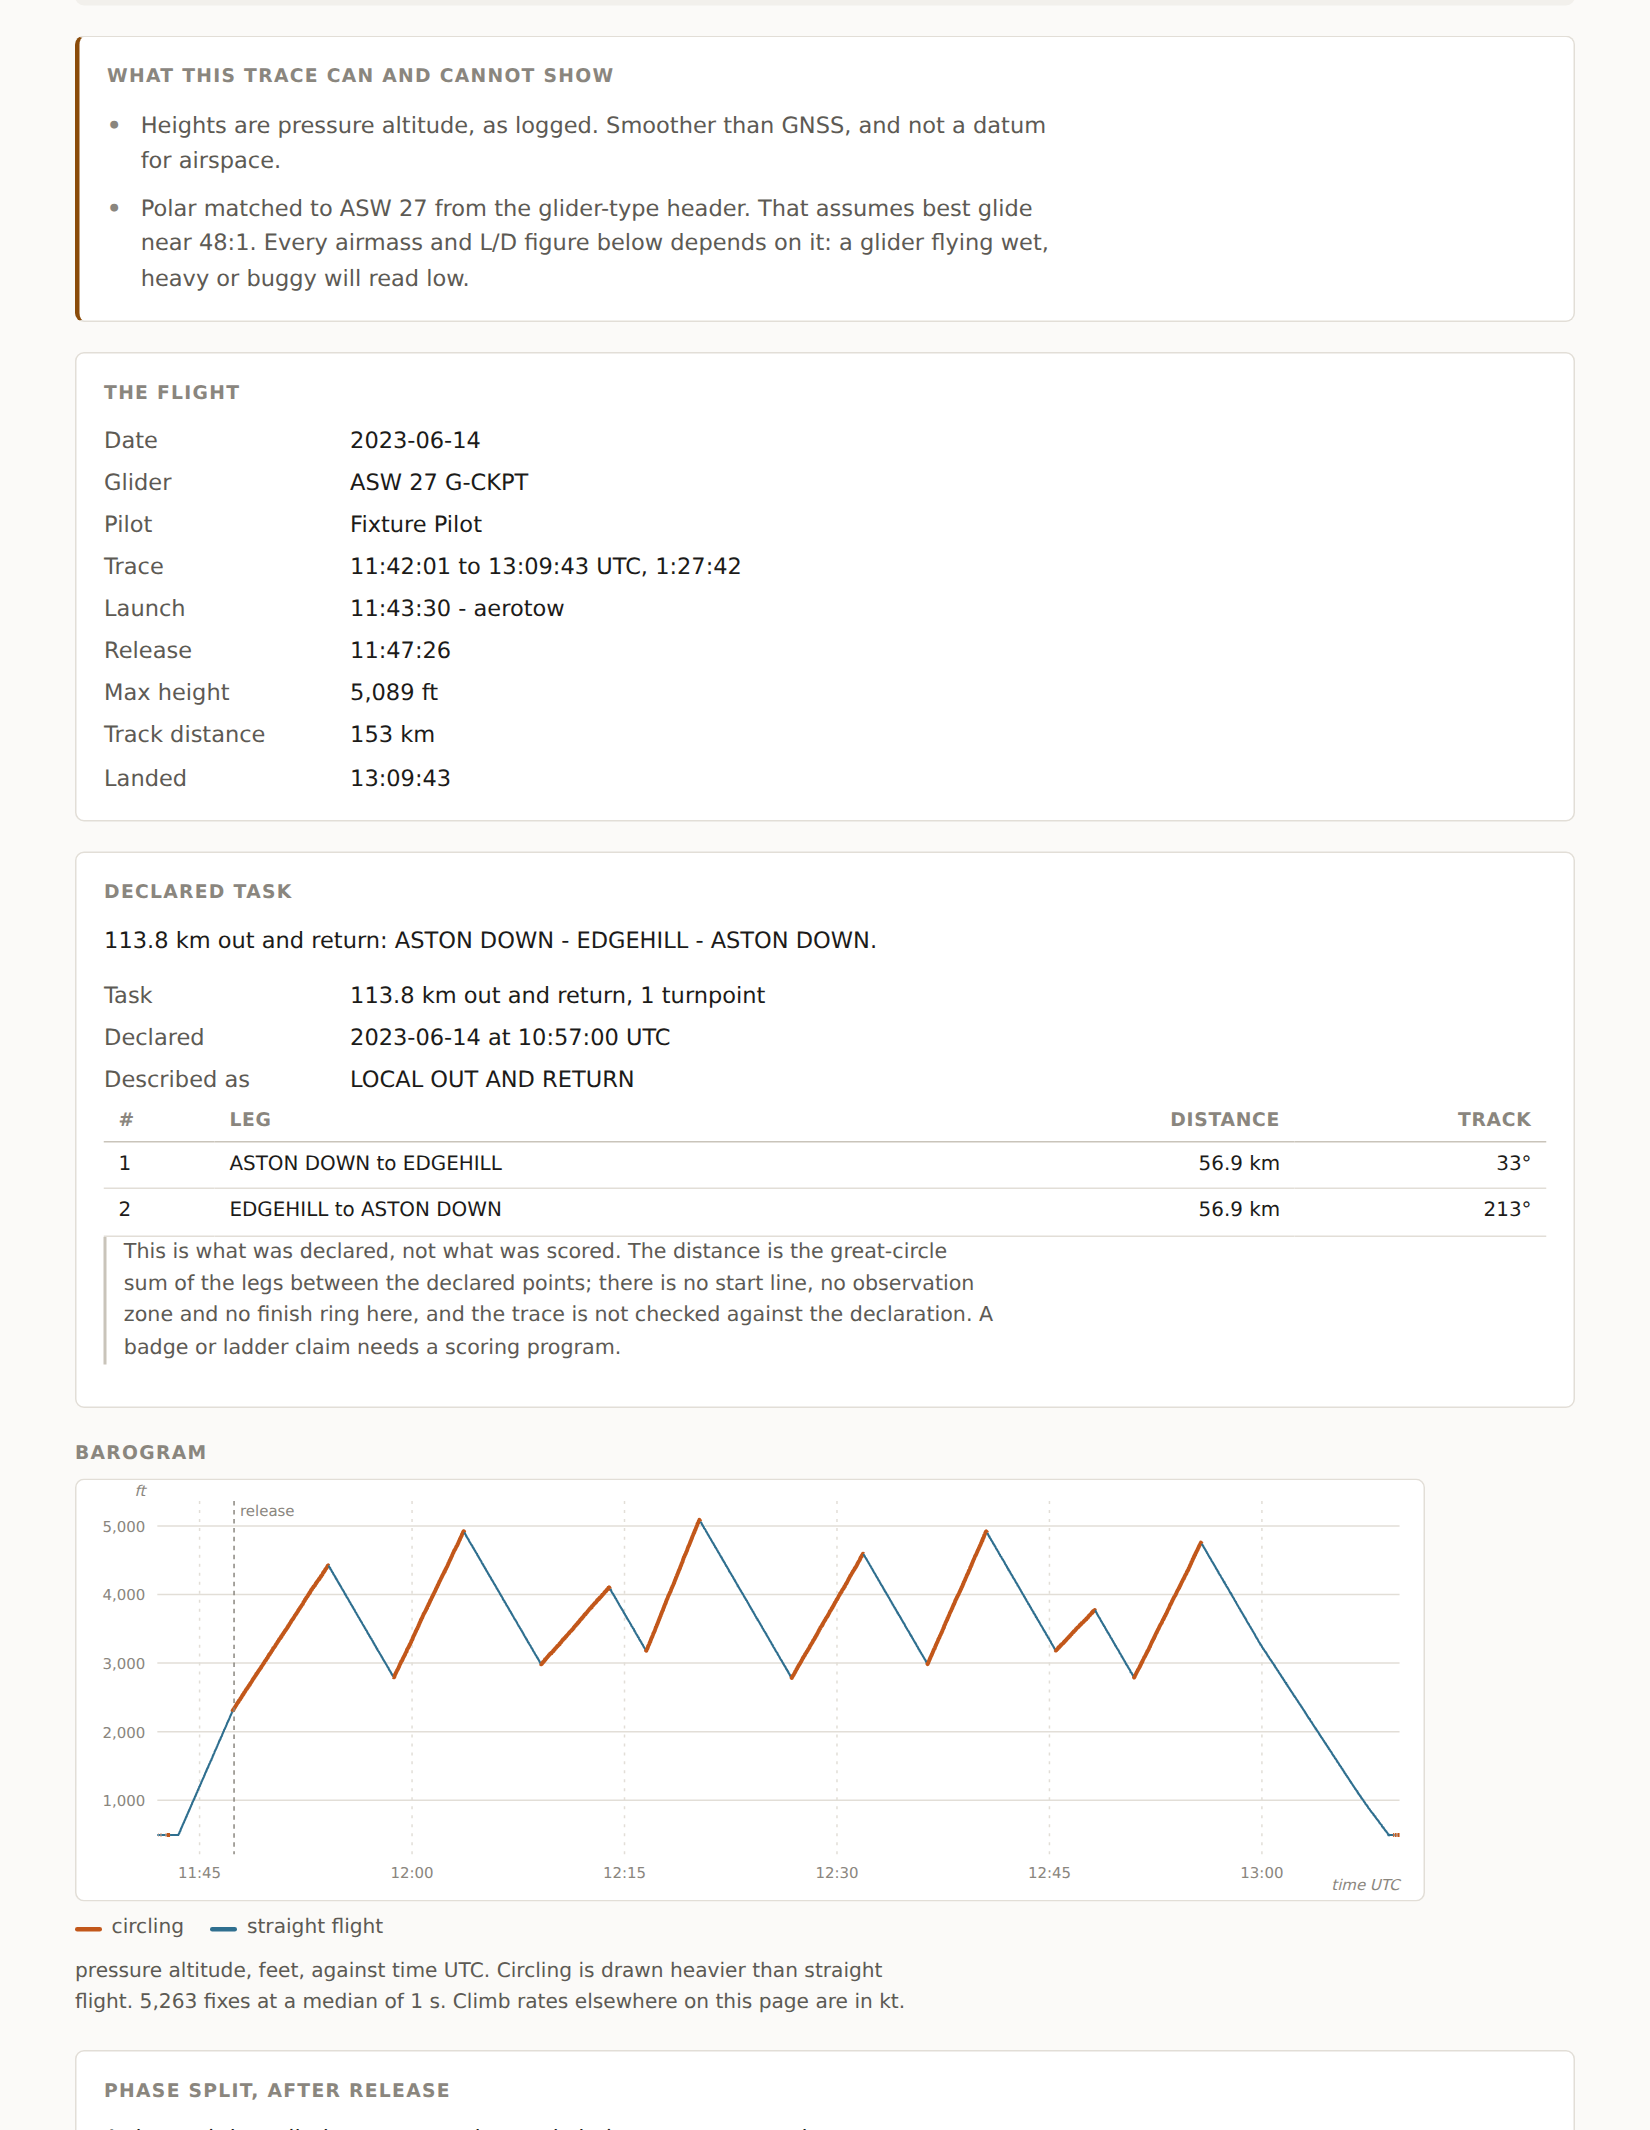
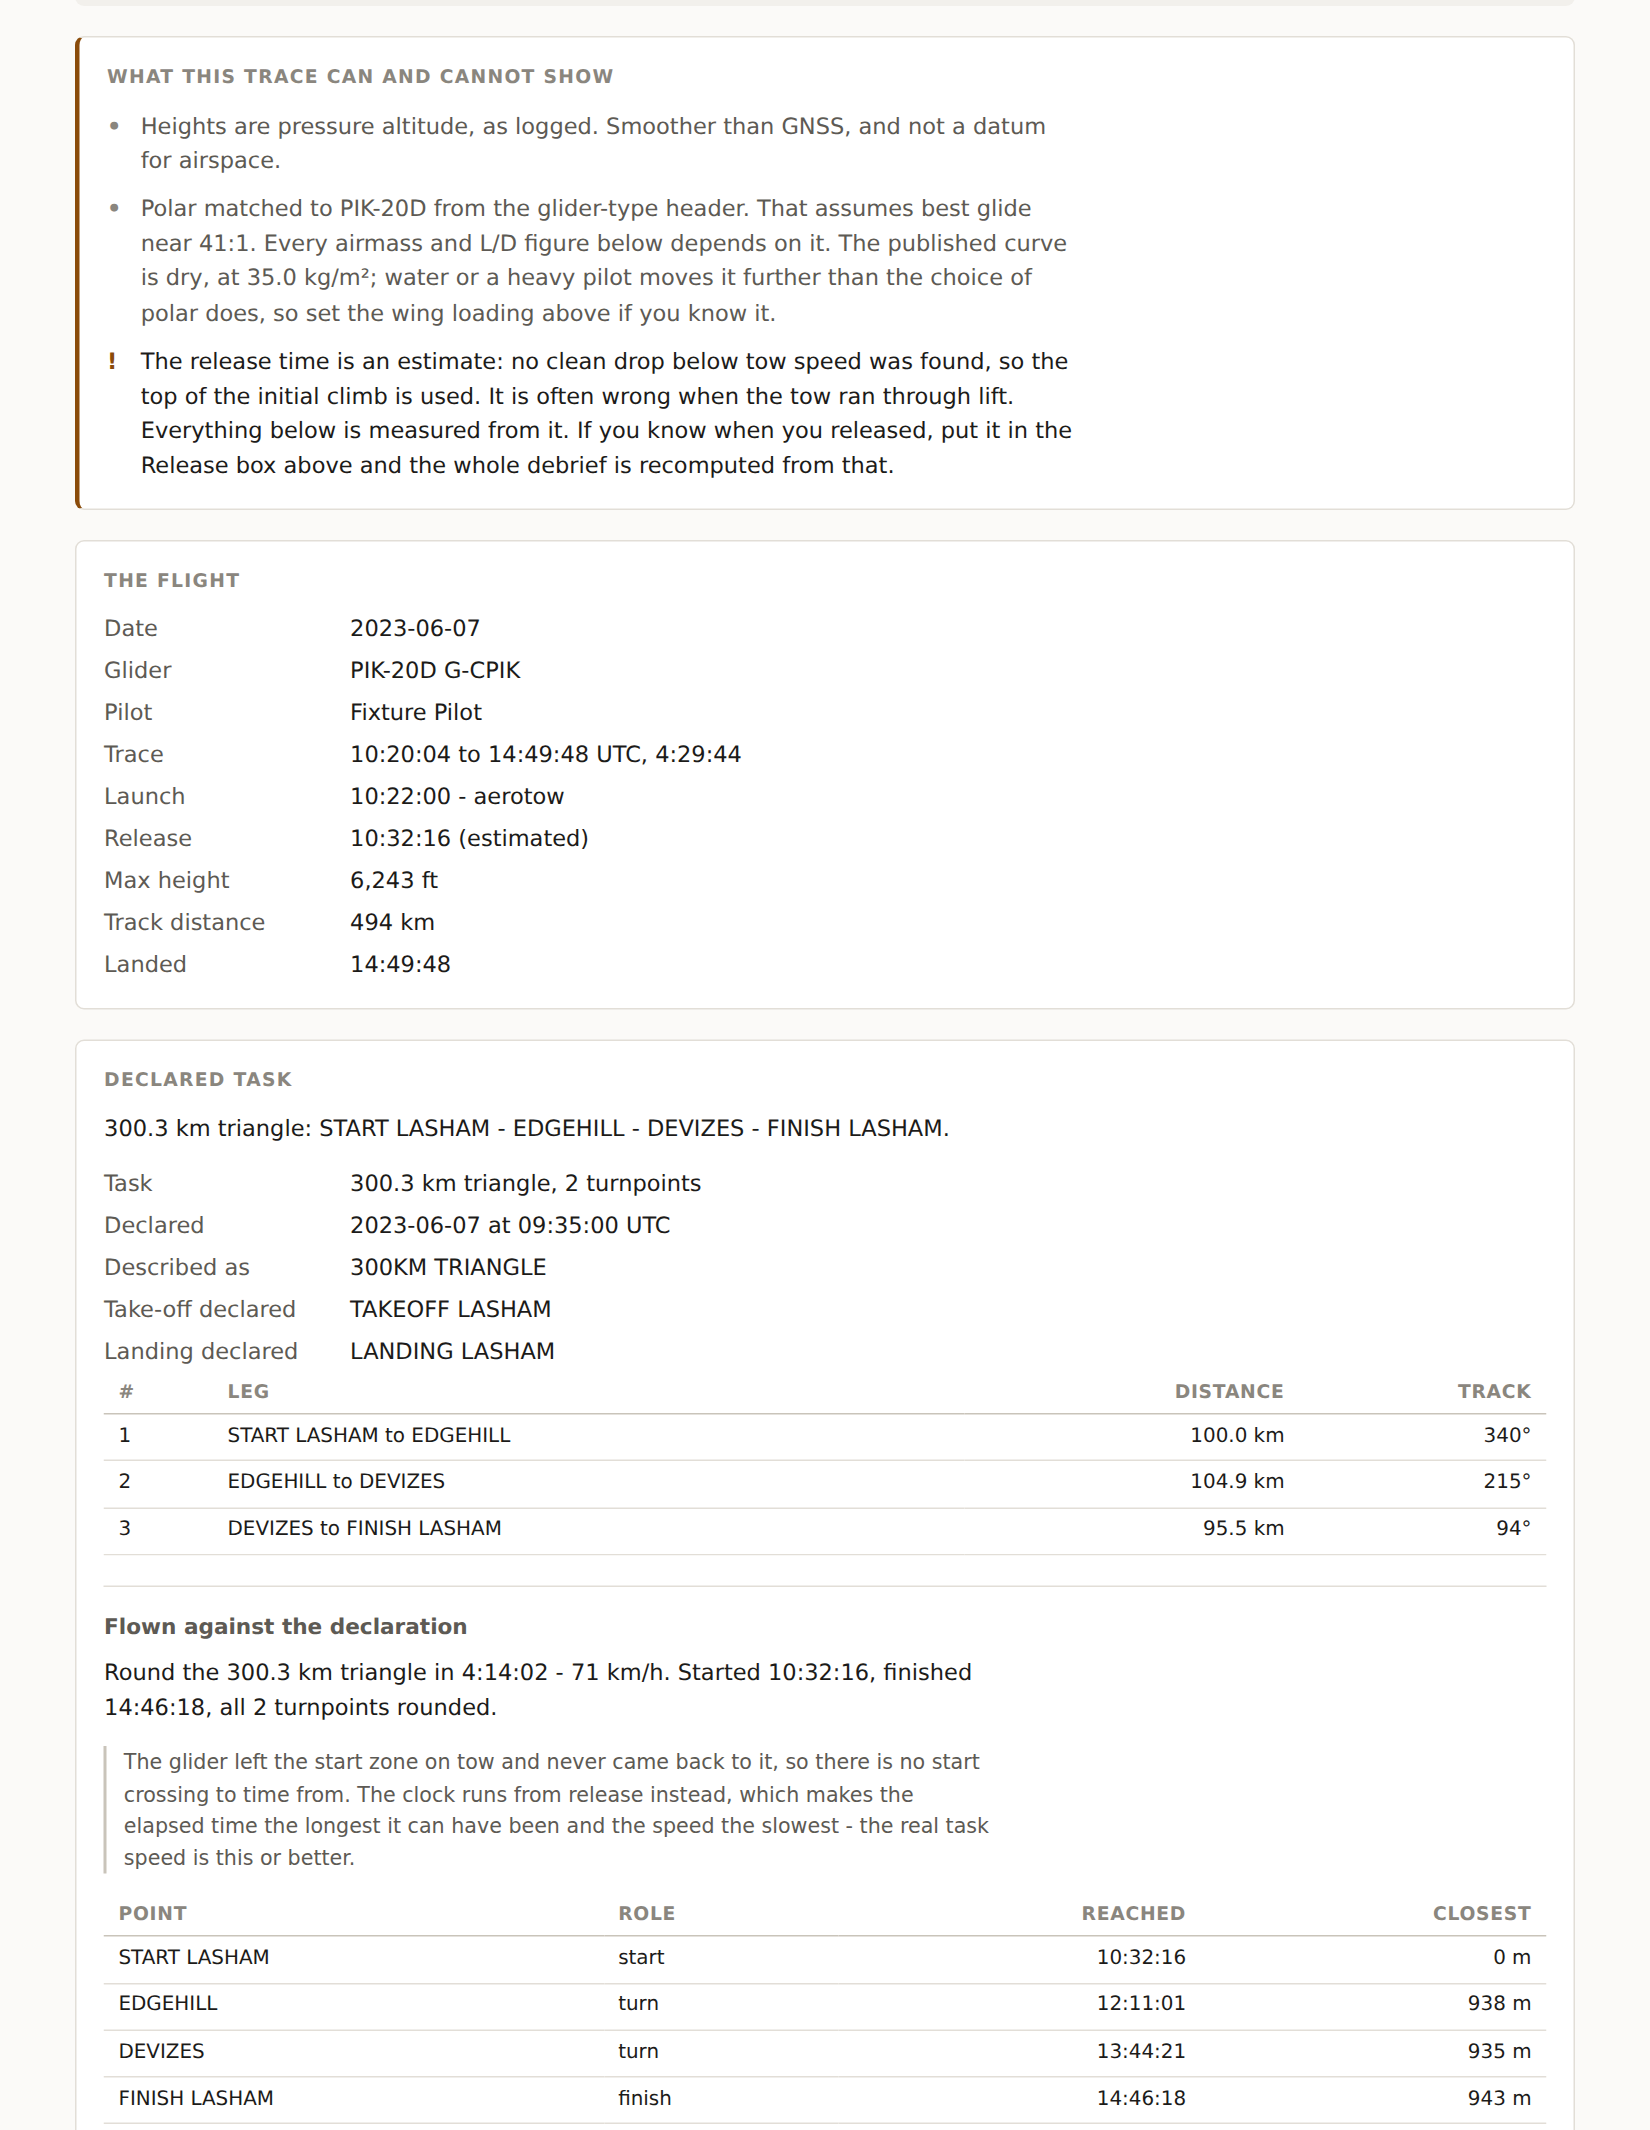
Refresh the README screenshot
Taken on the declared-300k fixture rather than a local soaring flight, so the
image shows the thing the page now does that it did not: the declaration and
the trace checked against it. The polar caveat in the same frame carries the
published wing loading, which is the other new assumption a reader should see
before they see any airmass figure.

Claude-Session: https://claude.ai/code/session_01Y5b1ALcbDVY7iQGWKgmHiy

diff --git a/README.md b/README.md
@@ -6,7 +6,7 @@ doing on the straight legs.
 
 **[nealedj.github.io/igc-analyser](https://nealedj.github.io/igc-analyser/)**
 
-![The analyser: the data-quality panel, the flight summary, the declared task, and the barogram with circling picked out](docs/screenshot.png)
+![The analyser: what the trace can and cannot show, the flight summary, and the declared 300 km triangle with the trace checked against it - start, both turnpoints, finish and the speed](docs/screenshot.png)
 
 Everything runs client-side. The file is read with the File API and analysed in
 the tab; there is no backend, no upload and no analytics. Once the page has
